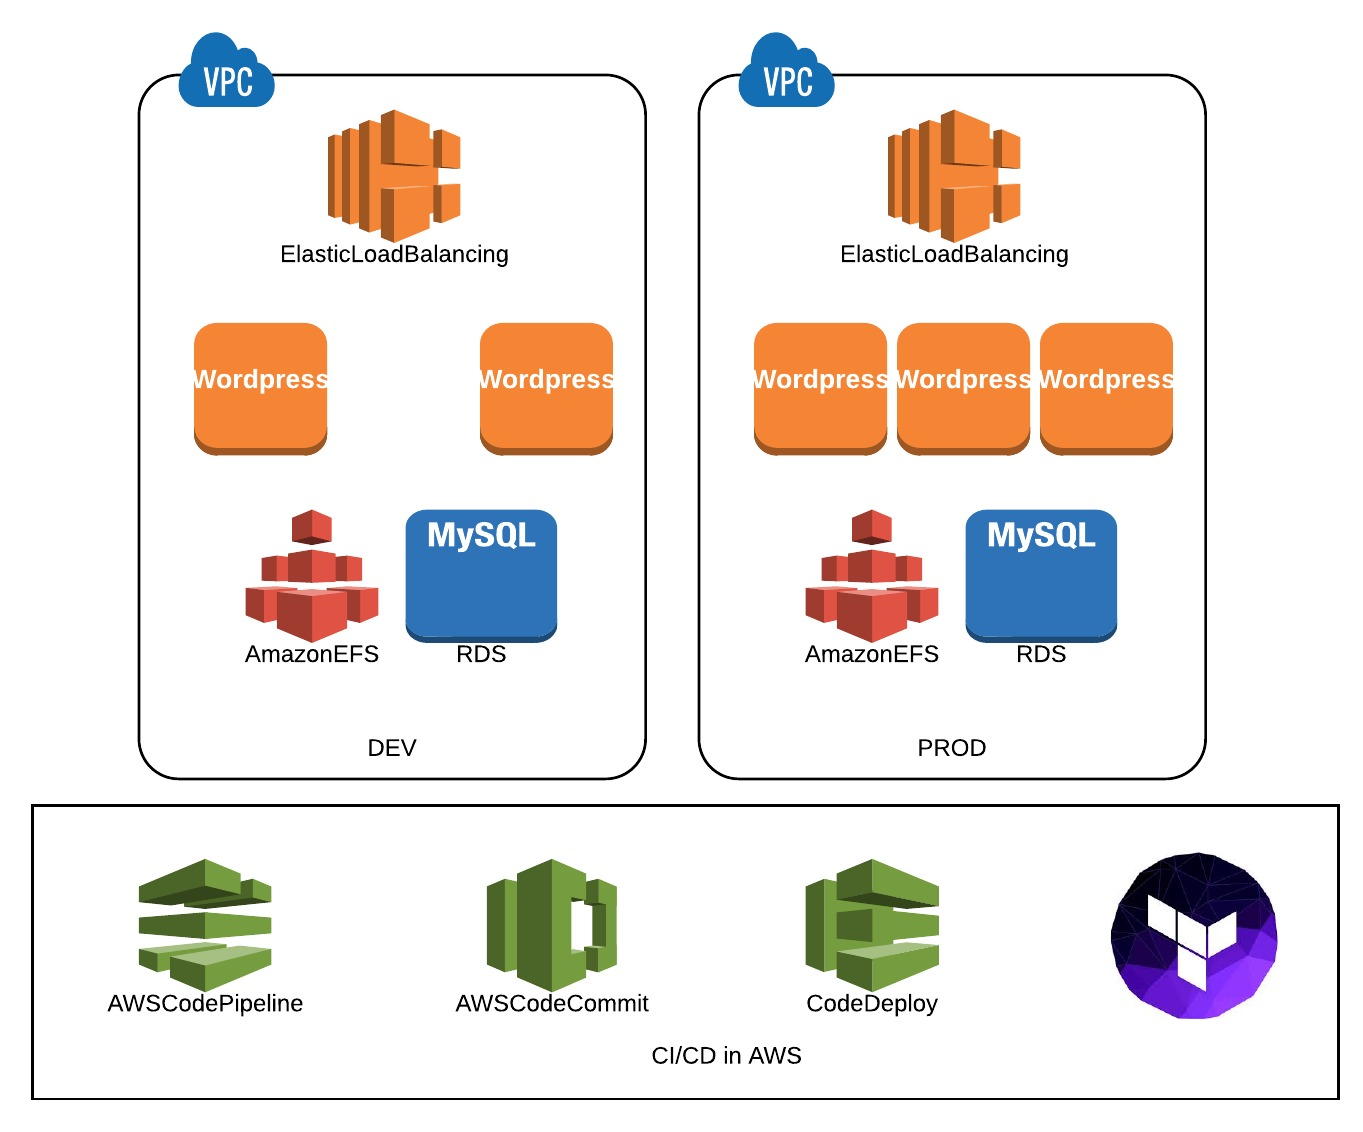
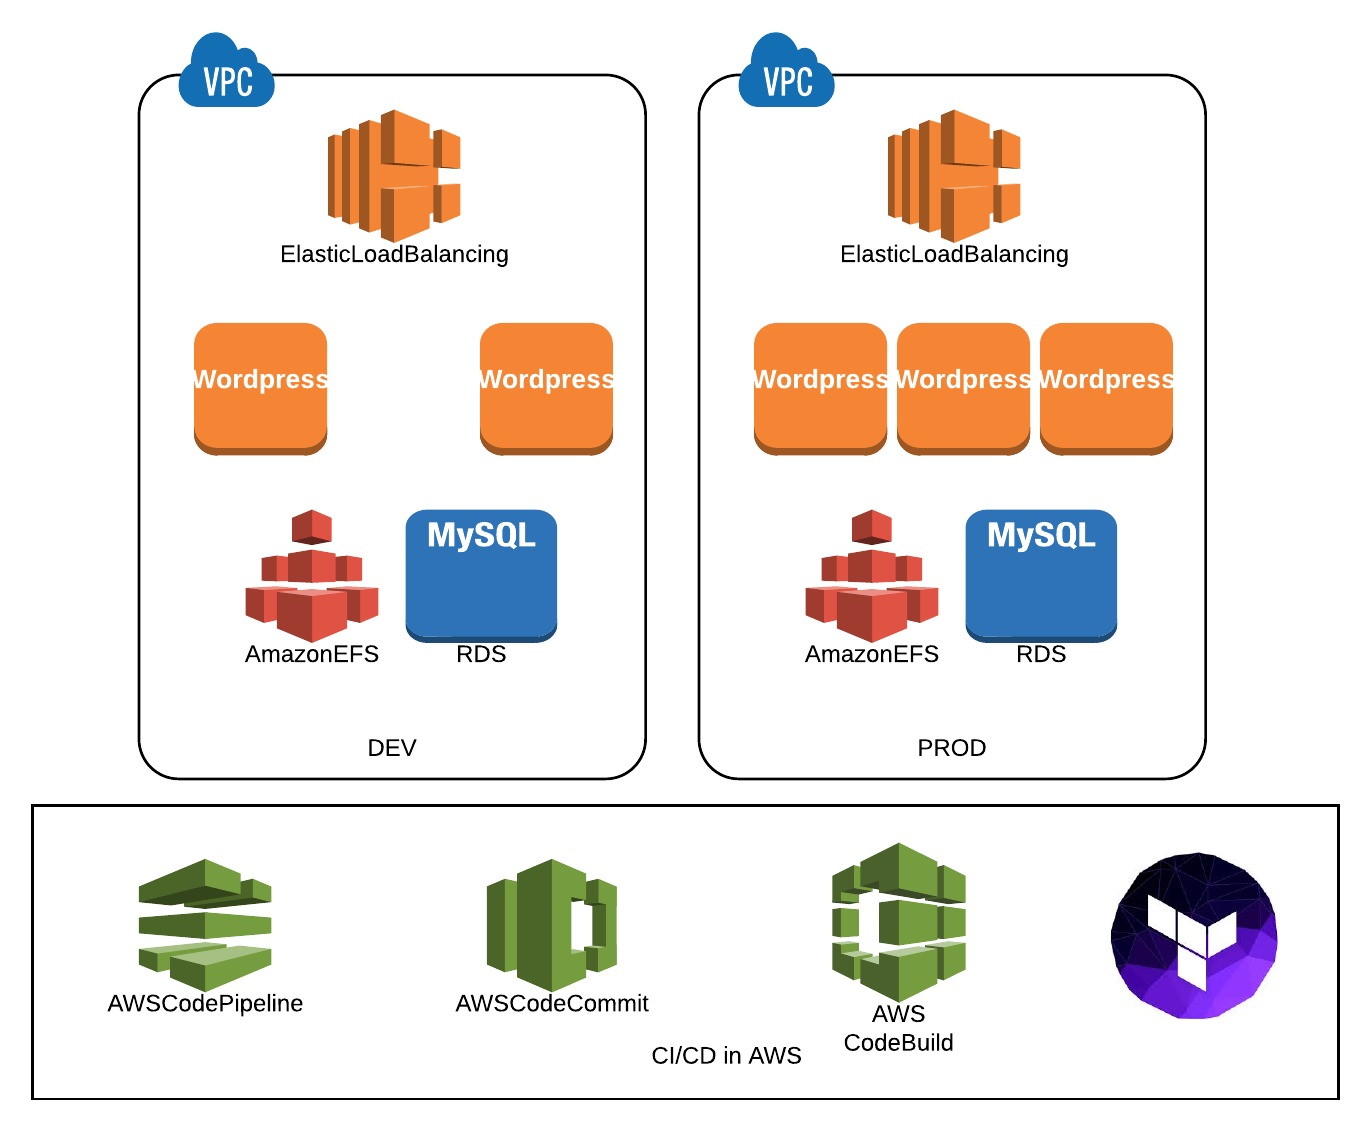
Update network diagram

Changed region(s): [[0.5855, 0.742, 0.7087, 0.9276]]

diff --git a/README.rst b/README.rst
@@ -49,9 +49,9 @@ This pipeline allows:
 Technology
 ----------
 
-CodeDeploy
+CodeBuild
 **********
-AWS CodeDeploy is a service that automates the deployment of an application code to EC2 instances (or to servers running on-premises). CodeDeploy can be configured to deploy according to various methods (e.g. all at once or a specified percentage / number of instances at a time), and it can track application health during the deployment process and rollback to previous versions if needed. It integrates with other CI/CD products, including Jenkins and CodePipeline.
+AWS CodeBuild is a fully managed build service in the cloud. AWS CodeBuild compiles your source code, runs unit tests, and produces artifacts that are ready to deploy. AWS CodeBuild eliminates the need to provision, manage, and scale your own build servers. It provides prepackaged build environments for the most popular programming languages and build tools such as Apache Maven, Gradle, and more. You can also customize build environments in AWS CodeBuild to use your own build tools. AWS CodeBuild scales automatically to meet peak build requests
 
 
 CodePipeline
